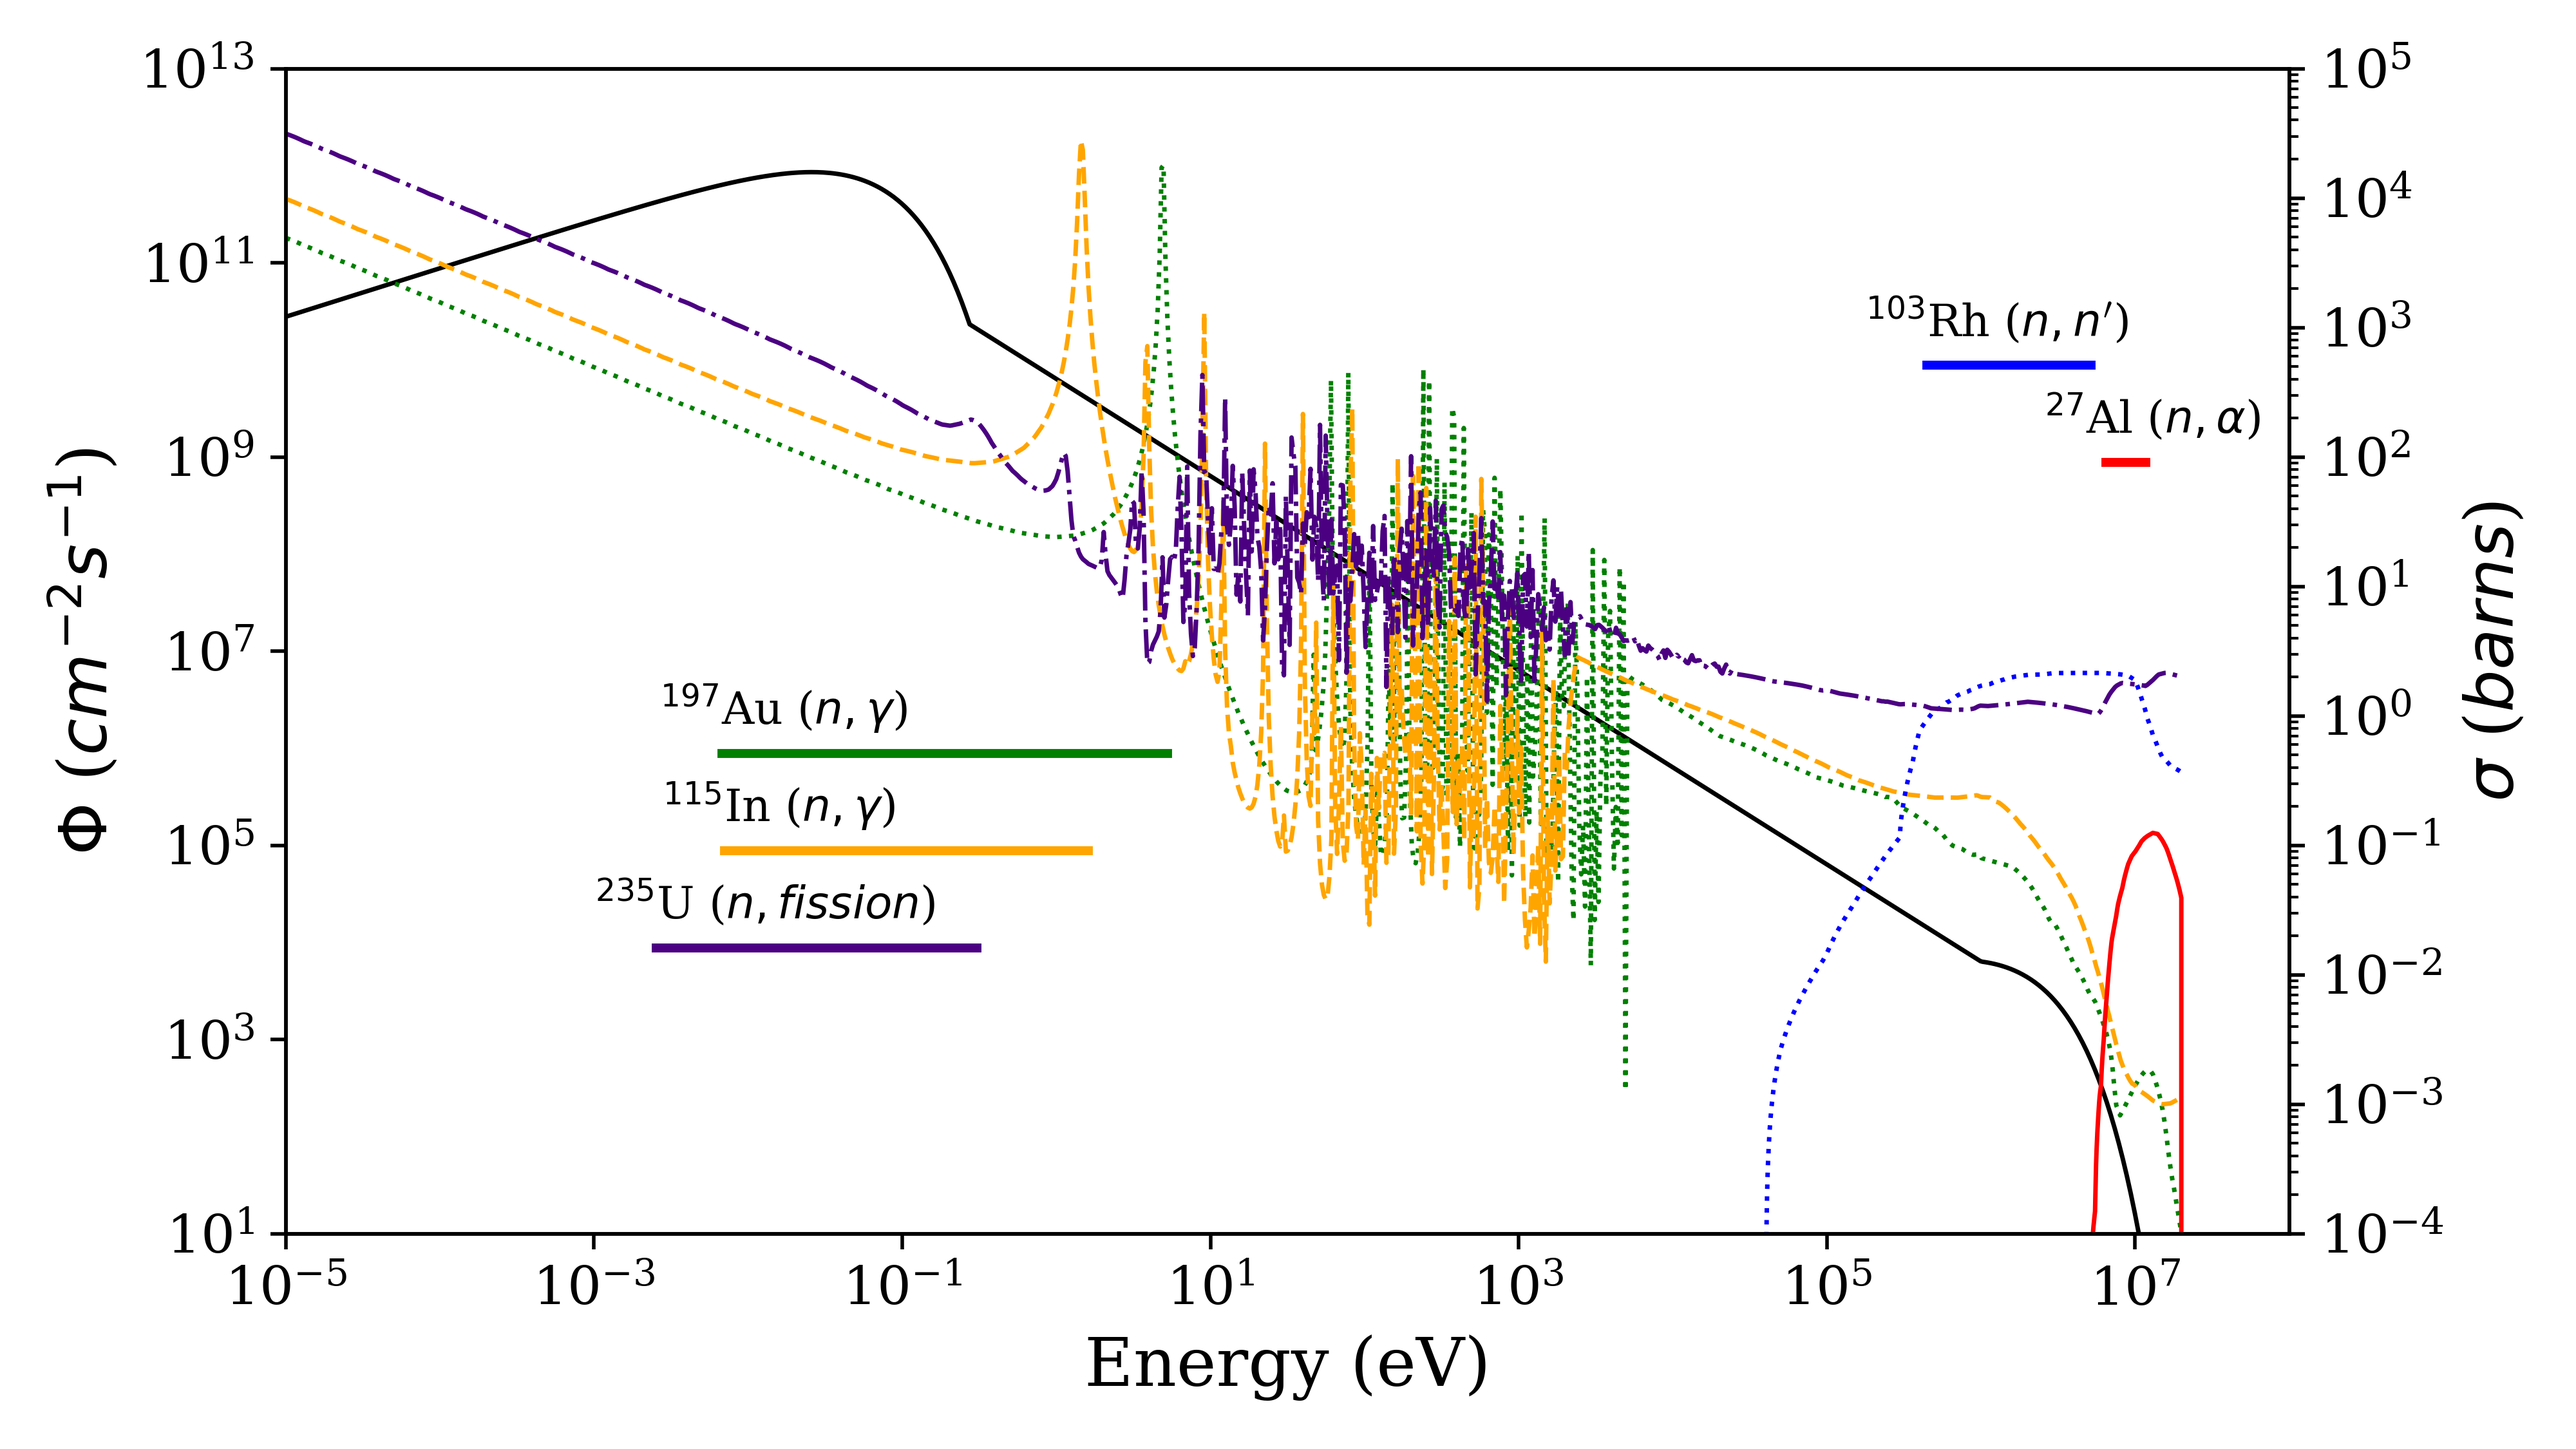
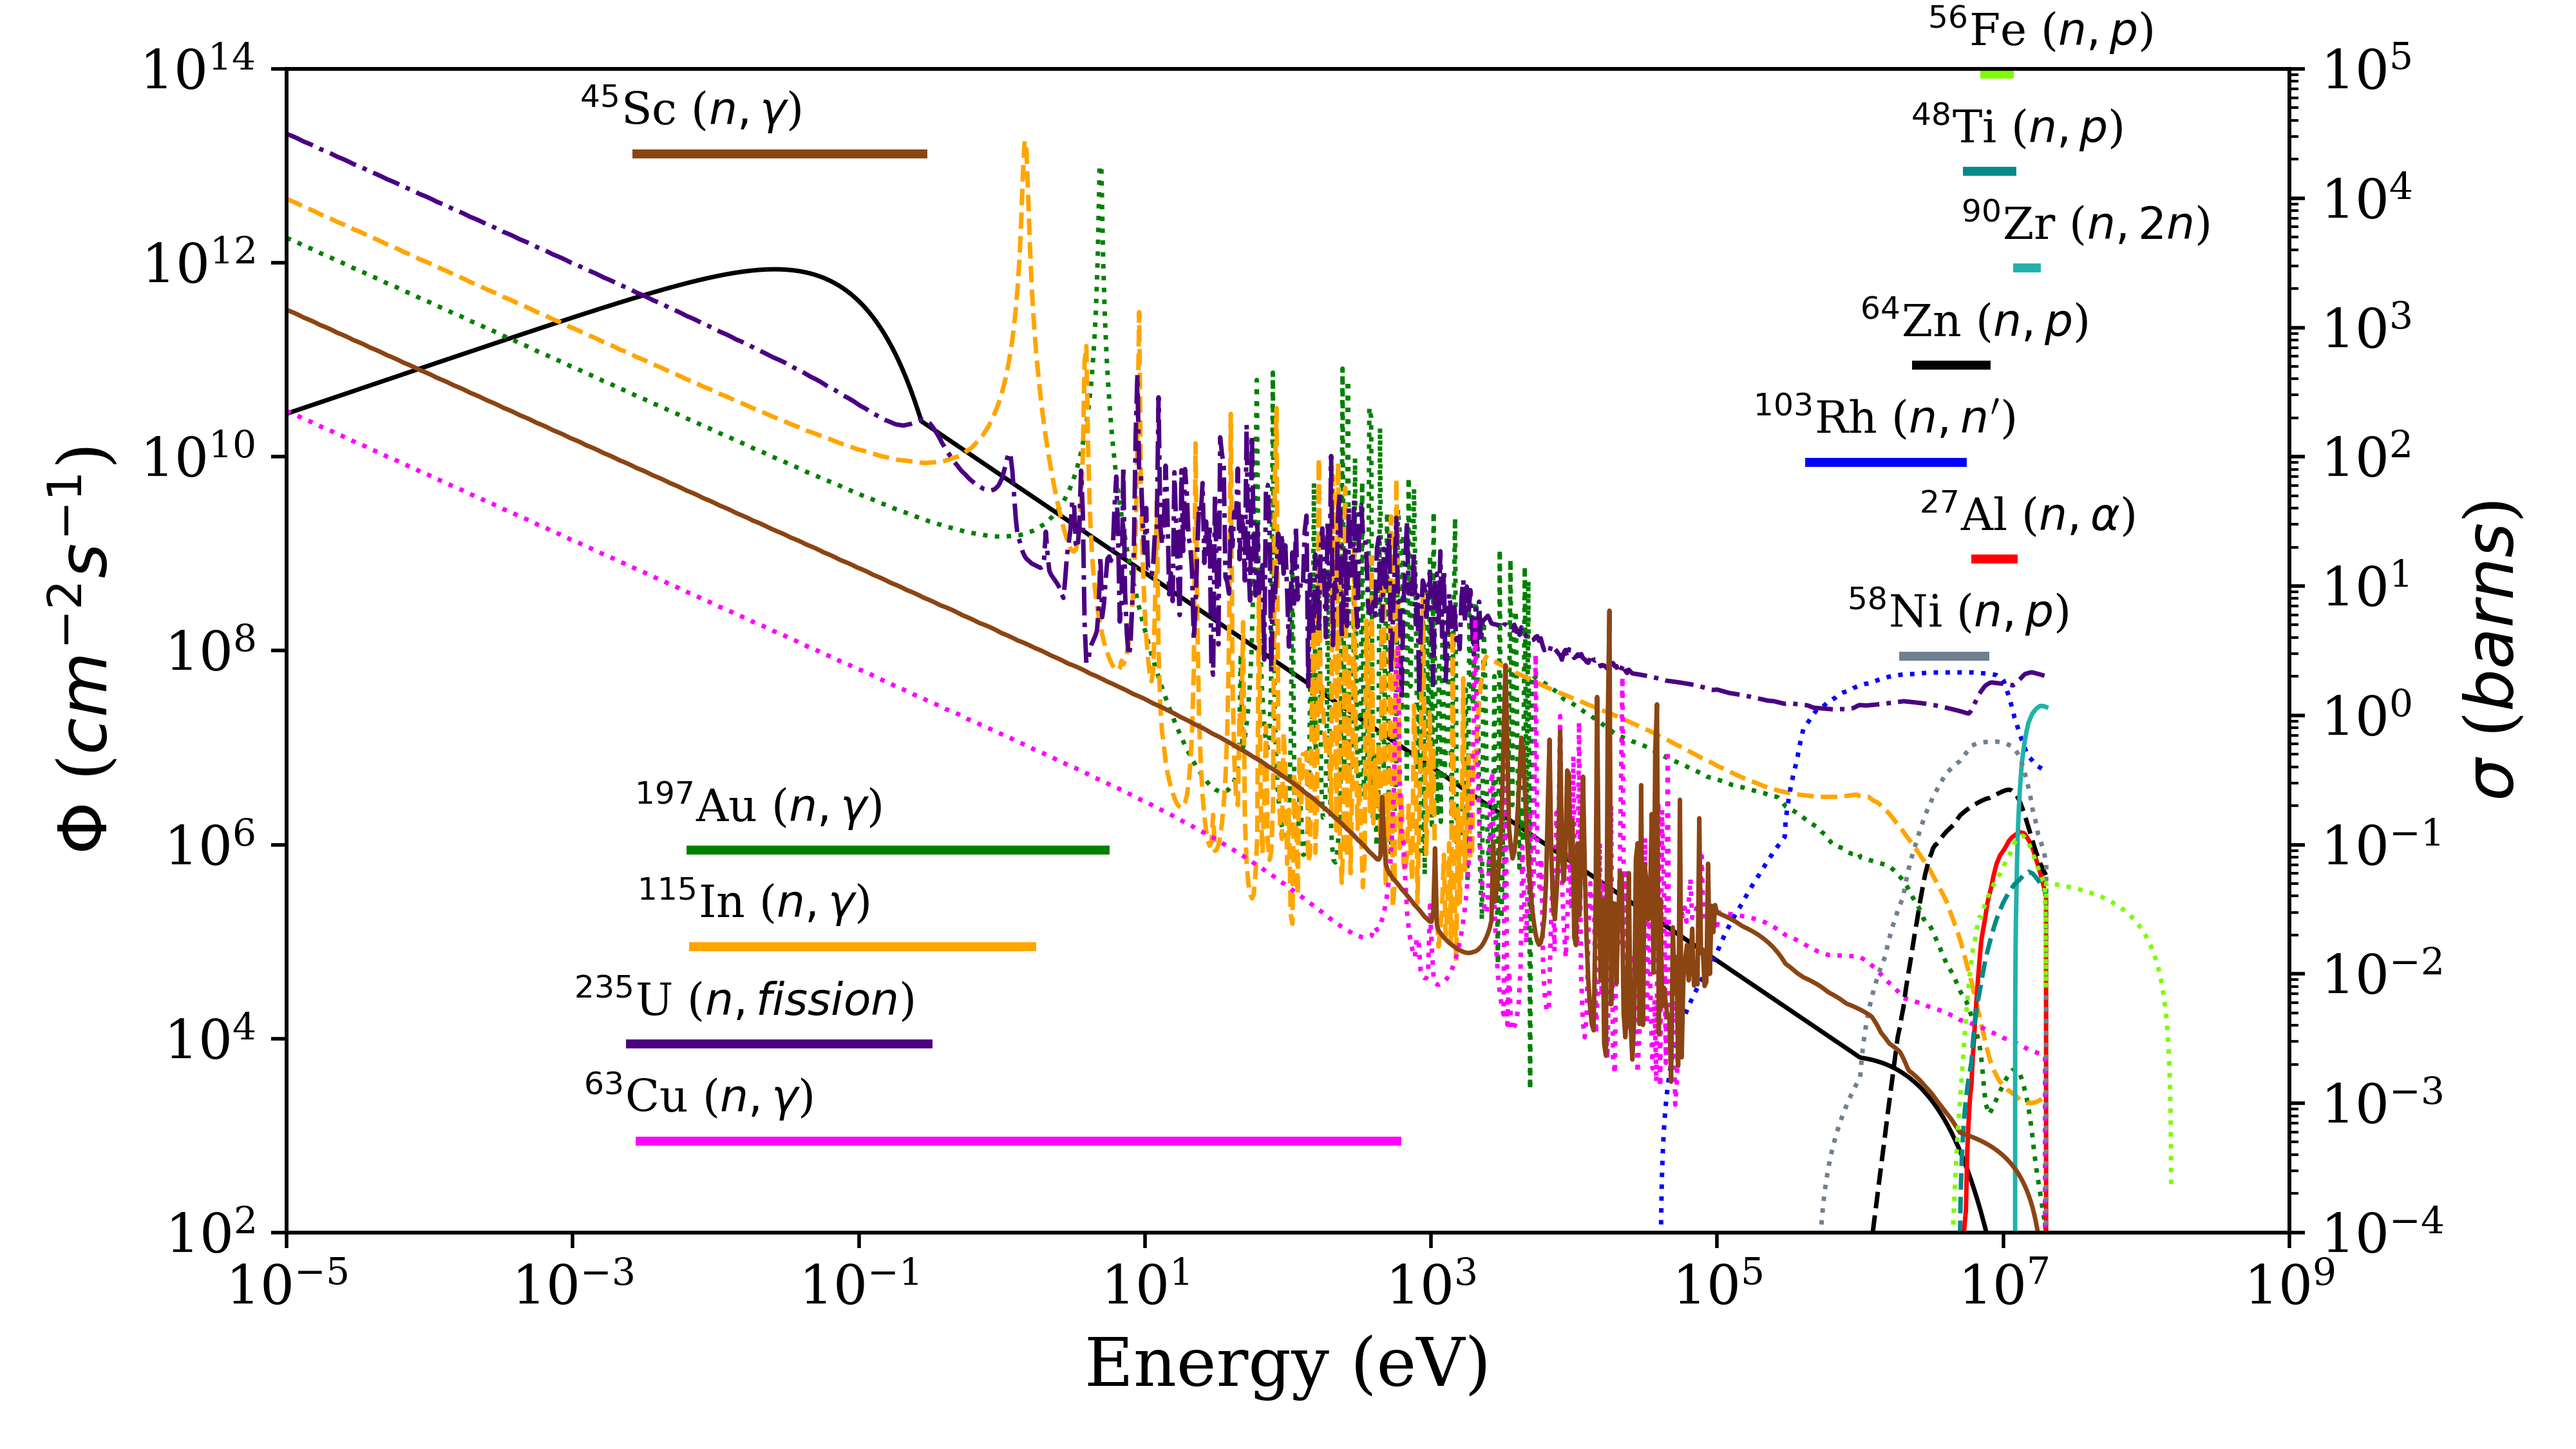
graph changes

diff --git a/source/amalgamated_plot.py b/source/amalgamated_plot.py
@@ -21,14 +21,14 @@ fig = plt.figure(101, figsize=(8, 4.5))
 ax1 = fig.add_subplot(111)
 ax1.set_xscale('log')
 ax1.set_yscale('log')
-ax1.set_xlim(1E-5, 1E8)
-ax1.set_ylim(1E1, 1E13)
+ax1.set_xlim(1E-5, 1E9)
+ax1.set_ylim(1E2, 1E14)
 ax1.set_xlabel('Energy (eV)')
 ax1.set_ylabel('$\Phi$ ($cm^{-2}s^{-1}$)')
 
 ax2 = ax1.twinx()
 ax2.set_yscale('log')
-ax2.set_xlim(1E-5, 1E8)
+ax2.set_xlim(1E-5, 1E9)
 ax2.set_ylim(1E-4, 1E5)
 ax2.set_ylabel('$\sigma$ ($barns$)')
 
@@ -44,13 +44,23 @@ reactions = [foils['Au']['reactions']['n,gamma'],
              foils['In']['reactions']['n,gamma'],
              foils['Al']['reactions']['n,alpha'],
              foils['Rh']['reactions']['n,inelastic'],
-             foils['U']['reactions']['n,total_fission']]
+             foils['U']['reactions']['n,total_fission'],
+             foils['Cu']['reactions']['n,gamma'],
+             foils['Zn']['reactions']['n,p'],
+             foils['Zr']['reactions']['n,2n'],
+             foils['Ni']['reactions']['n,p'],
+             foils['Ti']['reactions']['n,p'],
+             foils['Sc']['reactions']['n,gamma'],
+             foils['Fe']['reactions']['n,p']]
 
-foilnames = ['$^{197}$Au', '$^{115}$In', '$^{27}$Al', '$^{103}$Rh', '$^{235}$U']
+foilnames = ['$^{197}$Au', '$^{115}$In', '$^{27}$Al', '$^{103}$Rh', '$^{235}$U',
+             '$^{63}$Cu', '$^{64}$Zn','$^{90}$Zr','$^{58}$Ni','$^{48}$Ti',
+             '$^{45}$Sc', '$^{56}$Fe']
 
-colors = ['green', 'orange', 'red', 'blue', 'indigo']
-linestyles = [':', '--', '-', ':', '-.']
-heights = np.array([1e-7, 1e-8, 1e-4, 1e-3, 1e-9]) * powerscaling
+colors = ['green', 'orange', 'red', 'blue', 'indigo', 'fuchsia', 'black', 
+          'lightseagreen','slategrey', 'darkcyan', 'saddlebrown', 'lawngreen']
+linestyles = [':', '--', '-', ':', '-.', ':','--', '-',':','--','-',':']
+heights = np.array([1e-7, 1e-8, 1e-4, 1e-3, 1e-9, 1e-10,1e-2,1e-1,1e-5,1,1.5,10]) * powerscaling
 
 for i, reaction in enumerate(reactions):
     # region

diff --git a/source/cross_sections.py b/source/cross_sections.py
@@ -143,7 +143,7 @@ Fe['reactions']['n,gamma'] = {}
 f, r = extract('26-Fe-58(n,&gamma;)')
 Fe['reactions']['n,gamma']['func'] = f
 Fe['reactions']['n,gamma']['region'] = r
-Fe['reactions']['n,gamma']['roi'] = 10e-03, 10e-01 # initial guess
+Fe['reactions']['n,gamma']['roi'] = 2.9877e-03, 3.5809e+02 # initial guess
 Fe['reactions']['n,gamma']['roi_cd'] = r # initial guess
 Fe['reactions']['n,gamma']['halflife'] = 44.6 * 24 * 60 * 60 # s
 Fe['reactions']['n,gamma']['label'] = r'($n,\gamma$)'
